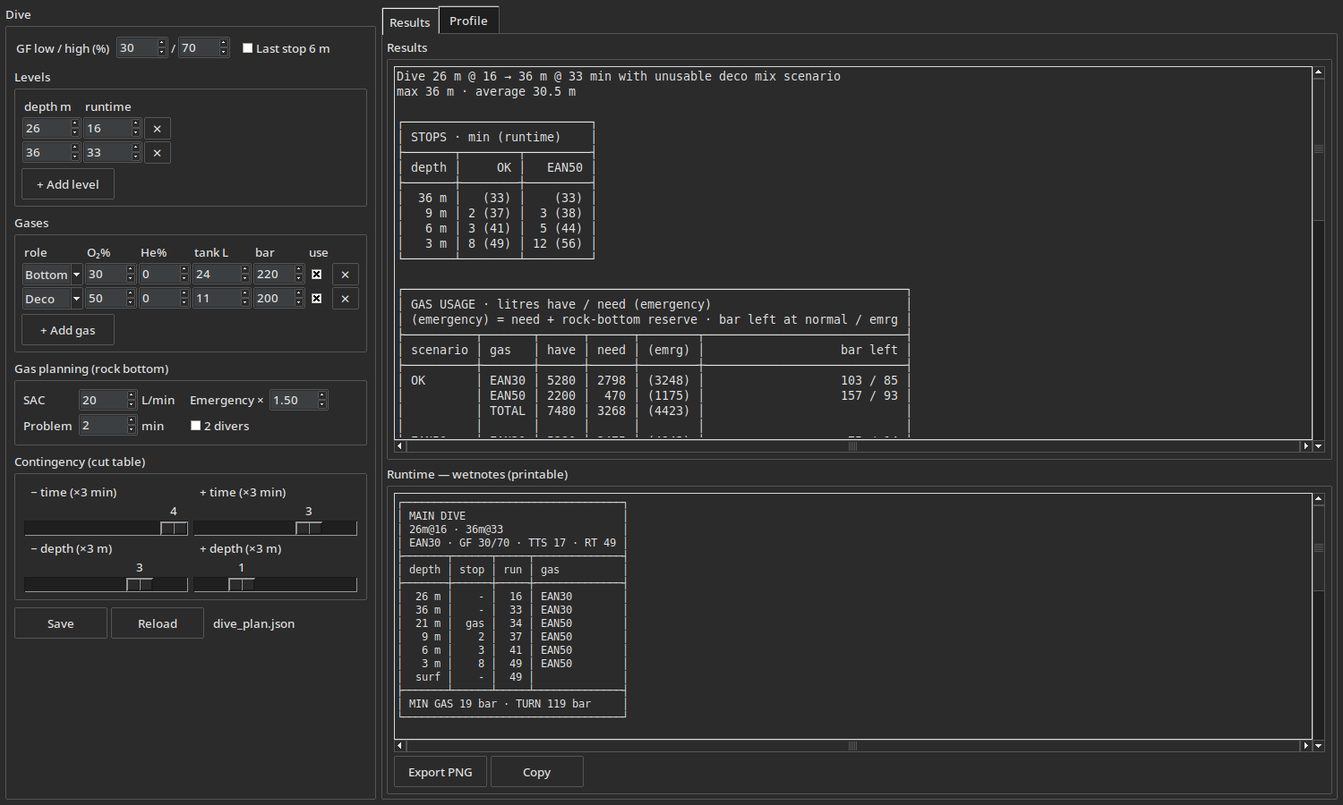
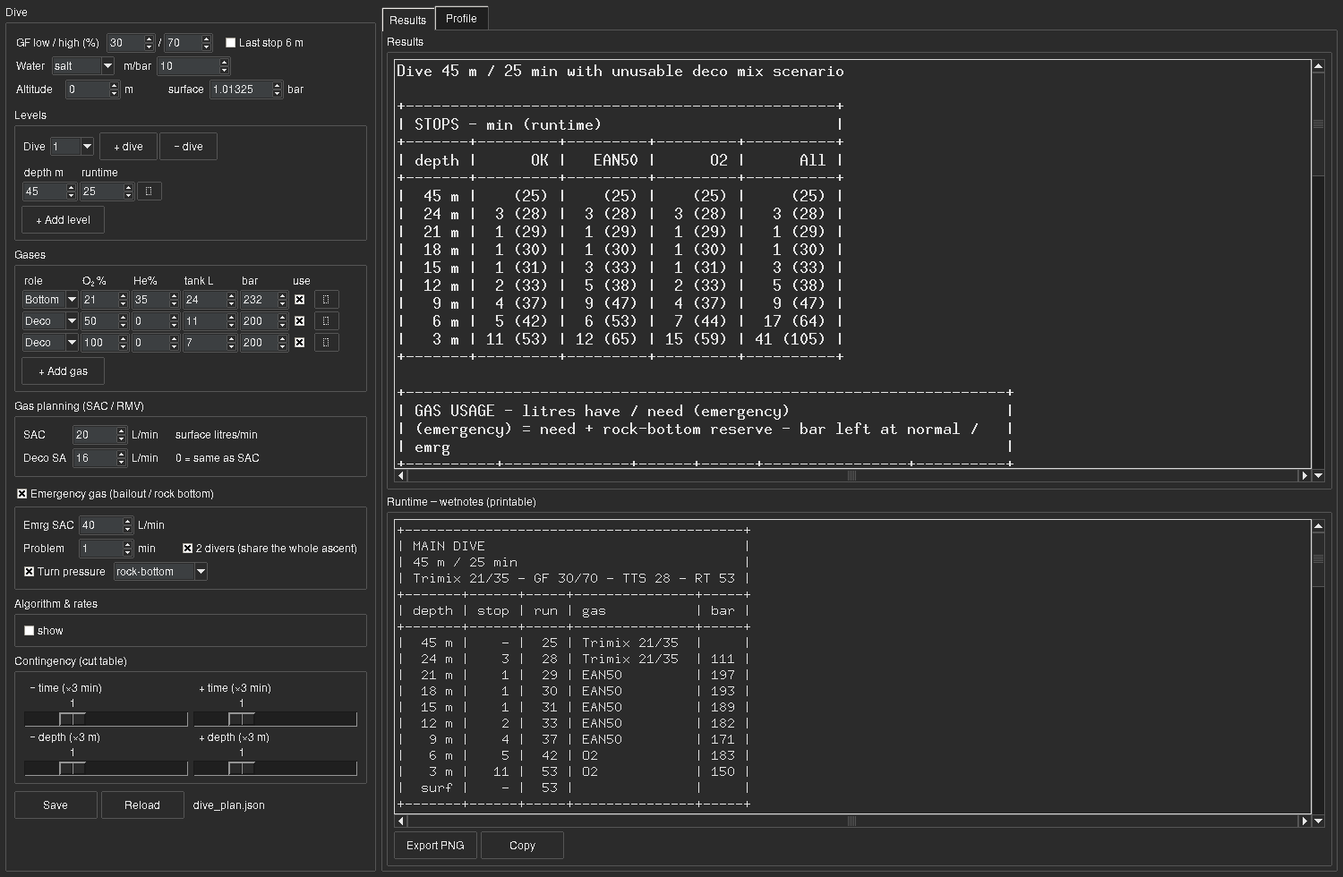
Bring every doc, instruction file and screenshot level with the code
The screenshots were the worst of it: 25 commits stale, predating the
Emergency gas frame, the turn pressure and the cut-table sliders that both
README and CLAUDE.md describe in detail — and still showing the 'Emergency x
1.50' multiplier that was removed in #28. Regenerated from a fixed dive rather
than the checkout's own dive_plan.json, so they are reproducible and do not
publish the owner's plan.

Verified rather than eyeballed: every CLI recipe in README, CLAUDE.md and the
skill was extracted and executed (36 of them), and both library snippets and
the cards/README workflow were run. One CLAUDE.md example needed a config with
'repeats' and now says so; the rest pass.

Also:
- Test counts were wrong in three places (174/258/284 in README, 200 in
  CONTRIBUTING; it is 442) and wrongly framed — skipped tests still count in
  'Ran', so what varies is the skip line. Documented as a table of what each
  machine is missing: 1 / 45 / +38.
- Repetitive dives and the printable card PDF were absent from the README
  feature list entirely.
- Module lists everywhere now name deco.toxicity, deco.contingency and
  deco.cards; CLAUDE.md's app row still said 'SAC x multiplier' and pointed at
  buhlmann.contingency_schedules.
- CI proves two more claims: the GUI job runs the input-coverage widget arm
  (what makes #19 checkable), and the wheel check asserts cards.py,
  toxicity.py and contingency.py really ship (#31). Both verified locally.

diff --git a/CLAUDE.md b/CLAUDE.md
@@ -39,7 +39,7 @@ A small, dependency-free Python library (+ CLI and optional GUI) that computes:
 | `src/deco/report.py` | Shared stdlib-only layer between `buhlmann` and both front ends: everything user-facing that is *computed* lives here once so the CLI and GUI cannot drift. `DEFAULT_FILL_BAR`, `water_name` (msw/bar → salt/fresh/custom label), `wetnotes_rows` (the printed runtime-card rows, built on `buhlmann.stop_legs`), `runtime_min` (re-exported from `buhlmann`; a runtime truncated to whole minutes — MultiDeco's convention, verified against a real export; every rendered runtime goes through it), `warning_lines`, `backup_line` (the whole schedule on one line, for a slate or a message), `GasStackRow`/`gas_stack_table` (MOD/END/EAD/density per mix, each quoted at its OWN MOD — the deepest it would ever be breathed), `leg_pressures` (cylinder bar leaving each stop, index-aligned to `stop_legs`; the one gas figure an SPG can check), `Bank`/`aggregate_banks` (same-mix cylinders → one bank), `DEFAULT_SAC` (20 L/min — the baseline every gas estimate falls back to, kept equal to the config schema's `sac_normal`), `CylinderNeed`/`GasReport`/`gas_report` (per-mix need/have/emergency/SHORT + rock bottom — it takes the whole `DivePlan`, never loose environment scalars, so a caller cannot omit the water/altitude or the deco stack and get a plausible wrong number: DECISIONS #24; with `GasPlan.emergency` False, `liters_emergency` and `rock_bottom_l` are **None, never 0.0** — absent, not "none needed" — and `GasReport.emergency` is the one flag a renderer asks, DECISIONS #28; `turn_pressure_bar` follows `GasPlan.turn_rule` and is None when not wanted, `turn_reserve_bar` = `2 × turn − fill` is what surfaces, and `turn_below_rock_bottom` flags a thirds turn that leaves less than minimum gas — every view prints that flag, card included), `PlanResult`/`compute_plan_result` (+ `surf_gf`, `gas_stack`, `backup`, `leg_bars`, `bailout`) and `compute_series_result` (one `PlanResult` per dive of a day, tissues carried through the surface intervals — a series is a list of ordinary results, not a new kind of thing). **Gases are keyed by the frozen `Gas` value, never its rounded `repr`** — two mixes that render the same label keep separate accounting. **Keep dependency-free.** | buhlmann |
 | `src/deco/dive_config.py` | Shared JSON dive config (`load`/`save`/`normalize`/`to_buhlmann`) read by the GUI and written by `plan --save`. `load(strict=True)` raises on a missing/corrupt file (CLI); the lenient default falls back to `default_config()` (GUI first launch) — normalization happens *inside* that strict/lenient boundary so a semantically corrupt file can't slip through as a silent default. `save()` is atomic (temp file + `os.replace`). Where the file lives is `default_path()`: `$DECO_CONFIG`, else `./dive_plan.json` if the cwd has one, else the per-user config dir (`user_config_path()`) — there is no module-level `DEFAULT_PATH` any more (DECISIONS #11). Public `normalize(cfg)` (front ends use it instead of `_merged`). Levels are pure depth/time periods (`depth_m` + cumulative `runtime_min`) and gas is chosen automatically by role. Legacy per-level gas references (`gas_id` or inline mixes), legacy `"Level"`-role gases and legacy `start_min` arrival times are dropped on load. **Unknown keys, unknown gas roles, missing level fields and out-of-range mixes are refused, not defaulted** — `{"depth": 40}` used to normalize to 30 m and a role of `Bottum` to `Deco` (DECISIONS #9, #24). **A config with no usable gas is refused, not defaulted**: an explicit `"gases": []` stays empty and `to_buhlmann` raises (CLI exit 2) rather than planning on Air with a deco stage the file never named — an absent `gases` key still gets defaults (DECISIONS #24). `repeats` holds the dives after the first (`surface_interval_min` + `levels`, both required — a guessed interval would invent residual nitrogen); `series_of` returns the whole day as `(interval, levels)` per dive and `levels` stays dive 1, so every config predating repetitive dives means the same dive (DECISIONS #26). Adds `surface_p_bar`/`msw_per_bar` (environment), `gas_switch_policy` and `sac_deco` (`null` = one rate); a config predating them still loads as sea-level salt water with a single SAC. `emergency` (bool) + `sac_emergency` (absolute L/min) replace `sac_multiplier`, which — like the older `sac_stress` — migrates to a rate on load and is dropped; a config naming neither keeps the old behaviour (twice `sac_normal`). `turn_pressure` (bool) + `turn_rule` (`rock-bottom`/`thirds`) size the turn pressure. DECISIONS #28. | buhlmann |
 | `dive_plan.json` | The full dive: `levels` (depth + cumulative runtime — pure depth/time periods; gas is chosen automatically by role, so levels carry no mix of their own), GF, gas stack (per-gas tank + fill pressure + `enabled` toggle + role Bottom/Travel/Deco; a disabled gas is never planned; legacy per-level gas references and `"Level"`-role gases are dropped on load), SAC + optional deco SAC + emergency SAC multiplier, problem time + `divers` (emergency team size), water type + surface pressure (`msw_per_bar`/`surface_p_bar`), ascent/descent/stop rates + ppO2 window, `contingency` cut-table step counts on the fixed 3 min × 3 m grid (`time_before`/`time_after`/`depth_before`/`depth_after`, 0 disables a direction; legacy `time_delta_min`/`depth_delta_m` migrate on load). Agent-editable. | — |
-| `src/deco/app.py` | Tkinter + matplotlib GUI. **`recompute` builds ONE `report.PlanResult` per dive via `compute_series_result` — the same objects `deco plan` renders — and `_write_readout`/`_write_runtime` render its fields; the GUI formats, it never derives** (DECISIONS #24: deriving inline is how it came to print sea-level density on an altitude dive and to ignore the deco SAC entirely). Layout: left settings (GF row + 'Last stop 6 m' switch on top, then the **environment** row — water dropdown (salt/fresh/custom) writing m/bar, plus altitude writing surface pressure (both one-way: the numeric fields are the stored truth and stay hand-editable, so a constant from another planner survives a round trip), then the **dive series** row (a dive picker + `+ dive` / `- dive` and a surface-interval field shown on dives 2+ only — settings are shared across the day, only the profile repeats, DECISIONS #26) and an editable **Levels** list (depth / cumulative **runtime**, + Add level — two fields only, read/written via `_row_levels`/`_level_row_dict`; levels are contiguous so the transit is part of the runtime) and the editable gas list w/ tank+bar, then SAC + an optional deco SAC (0 = same rate), then a separate **Emergency gas** frame whose LabelFrame *is* the on/off checkbox — emergency SAC (L/min, 0 = twice the SAC) / problem minutes / a '2 divers' checkbox / a 'Turn pressure' checkbox + rule dropdown (rock-bottom or thirds, with a hover box explaining both), its inputs greyed out (ttk `disabled` state) when the box is unticked and every emergency figure gone from the Results tab and the wetnotes card when it is off (DECISIONS #28), then a collapsed **Algorithm & rates** panel (descent/ascent rate, stop interval, free last-stop depth, the whole ppO₂ window incl. the switch tolerance, the gas-switch policy, and P_H₂O — every remaining plan input, none of it config-passthrough any more; the rate fields carry `RATE_REFERENCE` as a `_Tooltip` hover box plus an inline one-liner, listing what each cross-checked planner uses and where the number was read off — 18/10 ours, 10/10 Shearwater, 8/9 MultiDeco) (stored as `divers` 1/2), then four **Contingency (cut table)** sliders — bottom-time steps −/+ and depth steps −/+ on the fixed 3 min × 3 m grid, persisted in the config's `contingency` block, 0 disables a direction); the rest is a two-tab notebook — **Results** (stops + lost-deco-gas scenario table, per-scenario gas usage as **have / need (emergency)** — tank×bar carried vs litres required at the normal SAC, with the rock-bottom emergency reserve (`buhlmann.emergency_gas_liters`: problem minutes @ max depth + the real ascent/deco to the next switch at SAC × multiplier) **added on top of the normal need** in parentheses (the `(emrg)` figure = need + reserve); `SHORT!` flags a shortfall at the normal SAC and a second `SHORT!` inside the emergency parens when even need-plus-reserve is exceeded — plus bar left at both the normal and emergency need, and the gas plan whose columns are **need / have / (emrg)**) + a printable **Runtime** wetnotes card — one framed card per lost-gas scenario — including a **lost bottom gas** column when that is survivable at all — rows from `report.wetnotes_rows` so the STOP column always adds up to the RUN column (DECISIONS #17), plus a `bar` column (`report.leg_pressures`) and the one-line backup schedule in the footer, then the bottom-timer **CUT TABLE** matrix card from `buhlmann.contingency_schedules` (bottom-time rows × depth columns, each cell `ContingencyCell.text()` — stops + TTS rounded UP, `no deco`/`n/a`; `*` marks the planned row/column) — with PNG export, and **Profile** (the depth/time chart with the deco ceiling overlaid via `buhlmann.ceiling_profile`). Dark mode in the **Settings** menu. **Continuous inputs are debounced**: entry traces and the cut-table sliders call `_schedule_recompute()` (150 ms, cancels any pending job), discrete actions — add/remove level or gas row, switch dive, dark mode, the initial build — call `recompute()` directly, and `recompute()` stays synchronous because the tests run without a mainloop (DECISIONS #30). Loads/saves `dive_plan.json`; dark mode + window geometry (saved on close, restored on start; 1x1 unmapped geometries never persisted) live in `ui_settings.json` next to the per-user config dir (never mix UI prefs into the dive config — DECISIONS #10). `--install-launcher` (`deco-gui --install-launcher`) registers a per-user Linux `.desktop` + icon whose `Exec` is `<python> -m deco.app` (so it survives moving the checkout), so GNOME docks show the `<//>` tile (window icon alone is ignored there; keep iconphoto images ≤128 px — Tk 8.6 silently writes an empty `_NET_WM_ICON` above that). Built as small per-card methods (`_card_header`/`_cards_warnings`/`_card_series`/`_cards_stops`/`_card_gas`/`_card_gas_stack`/`_card_dive`/`_card_environment`/`_card_gas_plan`), each taking the `PlanResult` and returning lines — `_write_readout` chooses the order and holds no arithmetic. Safety surfacing: ppO₂/ceiling/density warnings as ⚠ cards **at the top of Results and on every wetnotes card** (DECISIONS #4), CNS/OTU + END/density + the config-driven rates/ppO₂ limits in the DIVE/GAS cards, silent-fallback notices (no Bottom gas, invalid mix row), gas-switch rows (`gas` in the stop column) on the wetnotes card, same-mix cylinders aggregated via `_cylinders_by_mix`, and a strict config load on startup (a corrupt file shows "⚠ config unreadable — defaults", never a silent default plan). | matplotlib, tkinter, dive_config |
+| `src/deco/app.py` | Tkinter + matplotlib GUI. **`recompute` builds ONE `report.PlanResult` per dive via `compute_series_result` — the same objects `deco plan` renders — and `_write_readout`/`_write_runtime` render its fields; the GUI formats, it never derives** (DECISIONS #24: deriving inline is how it came to print sea-level density on an altitude dive and to ignore the deco SAC entirely). Layout: left settings (GF row + 'Last stop 6 m' switch on top, then the **environment** row — water dropdown (salt/fresh/custom) writing m/bar, plus altitude writing surface pressure (both one-way: the numeric fields are the stored truth and stay hand-editable, so a constant from another planner survives a round trip), then the **dive series** row (a dive picker + `+ dive` / `- dive` and a surface-interval field shown on dives 2+ only — settings are shared across the day, only the profile repeats, DECISIONS #26) and an editable **Levels** list (depth / cumulative **runtime**, + Add level — two fields only, read/written via `_row_levels`/`_level_row_dict`; levels are contiguous so the transit is part of the runtime) and the editable gas list w/ tank+bar, then SAC + an optional deco SAC (0 = same rate), then a separate **Emergency gas** frame whose LabelFrame *is* the on/off checkbox — emergency SAC (L/min, 0 = twice the SAC) / problem minutes / a '2 divers' checkbox / a 'Turn pressure' checkbox + rule dropdown (rock-bottom or thirds, with a hover box explaining both), its inputs greyed out (ttk `disabled` state) when the box is unticked and every emergency figure gone from the Results tab and the wetnotes card when it is off (DECISIONS #28), then a collapsed **Algorithm & rates** panel (descent/ascent rate, stop interval, free last-stop depth, the whole ppO₂ window incl. the switch tolerance, the gas-switch policy, and P_H₂O — every remaining plan input, none of it config-passthrough any more; the rate fields carry `RATE_REFERENCE` as a `_Tooltip` hover box plus an inline one-liner, listing what each cross-checked planner uses and where the number was read off — 18/10 ours, 10/10 Shearwater, 8/9 MultiDeco) (stored as `divers` 1/2), then four **Contingency (cut table)** sliders — bottom-time steps −/+ and depth steps −/+ on the fixed 3 min × 3 m grid, persisted in the config's `contingency` block, 0 disables a direction); the rest is a two-tab notebook — **Results** (stops + lost-deco-gas scenario table, per-scenario gas usage as **have / need (emergency)** — tank×bar carried vs litres required at the normal SAC, with the rock-bottom emergency reserve (`buhlmann.emergency_gas_liters`: problem minutes @ max depth + the real ascent/deco to the next switch at `GasPlan.sac_emergency`, an absolute L/min rate) **added on top of the normal need** in parentheses (the `(emrg)` figure = need + reserve); `SHORT!` flags a shortfall at the normal SAC and a second `SHORT!` inside the emergency parens when even need-plus-reserve is exceeded — plus bar left at both the normal and emergency need, and the gas plan whose columns are **need / have / (emrg)**) + a printable **Runtime** wetnotes card — one framed card per lost-gas scenario — including a **lost bottom gas** column when that is survivable at all — rows from `report.wetnotes_rows` so the STOP column always adds up to the RUN column (DECISIONS #17), plus a `bar` column (`report.leg_pressures`) and the one-line backup schedule in the footer, then the bottom-timer **CUT TABLE** matrix card from `contingency.contingency_schedules` (bottom-time rows × depth columns, each cell `ContingencyCell.text()` — stops + TTS rounded UP, `no deco`/`n/a`; `*` marks the planned row/column) — with PNG export, and **Profile** (the depth/time chart with the deco ceiling overlaid via `buhlmann.ceiling_profile`). Dark mode in the **Settings** menu. **Continuous inputs are debounced**: entry traces and the cut-table sliders call `_schedule_recompute()` (150 ms, cancels any pending job), discrete actions — add/remove level or gas row, switch dive, dark mode, the initial build — call `recompute()` directly, and `recompute()` stays synchronous because the tests run without a mainloop (DECISIONS #30). Loads/saves `dive_plan.json`; dark mode + window geometry (saved on close, restored on start; 1x1 unmapped geometries never persisted) live in `ui_settings.json` next to the per-user config dir (never mix UI prefs into the dive config — DECISIONS #10). `--install-launcher` (`deco-gui --install-launcher`) registers a per-user Linux `.desktop` + icon whose `Exec` is `<python> -m deco.app` (so it survives moving the checkout), so GNOME docks show the `<//>` tile (window icon alone is ignored there; keep iconphoto images ≤128 px — Tk 8.6 silently writes an empty `_NET_WM_ICON` above that). Built as small per-card methods (`_card_header`/`_cards_warnings`/`_card_series`/`_cards_stops`/`_card_gas`/`_card_gas_stack`/`_card_dive`/`_card_environment`/`_card_gas_plan`), each taking the `PlanResult` and returning lines — `_write_readout` chooses the order and holds no arithmetic. Safety surfacing: ppO₂/ceiling/density warnings as ⚠ cards **at the top of Results and on every wetnotes card** (DECISIONS #4), CNS/OTU + END/density + the config-driven rates/ppO₂ limits in the DIVE/GAS cards, silent-fallback notices (no Bottom gas, invalid mix row), gas-switch rows (`gas` in the stop column) on the wetnotes card, same-mix cylinders aggregated via `_cylinders_by_mix`, and a strict config load on startup (a corrupt file shows "⚠ config unreadable — defaults", never a silent default plan). | matplotlib, tkinter, dive_config |
 | `tests/` | `unittest` suites: `test_buhlmann.py`, `test_toxicity.py`, `test_contingency.py`, `test_cli.py`, `test_report.py`, `test_dive_config.py`, `test_app_levels.py`, `test_cards_format.py` (the printed card carries the planner's own numbers; skips without matplotlib), `test_input_coverage.py` (every plan input binds in config+CLI+GUI), `test_multideco_scenarios.py`, `test_planner_diff.py`, `test_subsurface_crosscheck.py`, `test_baker_crosscheck.py`, `test_shearwater_golden.py`. `tests/__init__.py` puts `src/` on `sys.path`, which is why discovery needs `-t .` (DECISIONS #13). | stdlib |
 | `tests/planner_diff.py` | **Constant/variable divergence harness.** `registry()` is every model constant and planner setting we have, each tagged with the observables that could pin it; `registry_gaps()` introspects every module in `CONSTANT_MODULES` (`buhlmann`, `toxicity`, `contingency`) and a test **fails if anything is unregistered**, so a new constant cannot be added invisibly. `Evidence` holds what a reference export prints (ppO₂, ead, density, schedule deltas, CNS/OTU, gas litres, stated settings); `infer_environment` inverts printed pressures to a feasible (surface_p, msw_per_bar) box by grid search; `compare()` returns one verdict per tunable — `DIVERGES` / `UNDETERMINED` (nothing in the evidence touches it — never confuse with agreement) / `SETTING` (the export states it; just pass it) / `JOINT_OK` (only identifiable as a group, and the group agrees) / `MATCH`. Run `python -m tests.planner_diff` for a report on the bundled exports. Add a new planner by writing one `Evidence`. | stdlib |
 | `tests/python_oracles.py`, `tests/test_python_oracles.py` | **Third-party Python oracles** — `decotengu` + `decodaitengu`, `pip install -e ".[dev]"`, GPL-3, **test-only and never vendored** (nothing in `src/deco` imports them). Four implementations make "who is wrong" answerable: our ceiling matches decodaitengu to 0.03 mbar (vs a 5.4 mbar MultiDeco gap), the 4.0/5.0 min first compartment splits two-two, and decodaitengu's slow-compartment helium `a` is a different model so it is a **nitrogen** oracle only (DECISIONS #22; what those numbers do and do not establish — and the qualifiers to quote them with — is #23). Skips when absent, like g++/gfortran. | decotengu, decodaitengu |
@@ -128,7 +128,9 @@ python -m deco.cli ndl --depth 30 --gas air --altitude 1500
 # Repetitive dives: each --dive is DEPTH:RUNTIME[:SURFACE_INTERVAL] (minutes on
 # the surface BEFORE that dive); residual loading is carried through
 python -m deco.cli plan --dive 30:25 --dive 30:25:60 --dive 24:30:90 --gas air --deco-gas 50
-python -m deco.cli plan dive_plan.json --dive-index 2   # just the second dive of a series
+# …and one dive out of a series. Needs a config whose `repeats` holds a dive 2
+# — the checkout's own dive_plan.json is a single dive, so this errors there.
+python -m deco.cli plan dive_plan.json --dive-index 2
 # Hold every deco switch until the first stop (the team convention) instead of
 # taking each mix at its MOD
 python -m deco.cli plan --depth 40 --time 25 --gas air --deco-gas 50 --gas-switch at-first-stop

diff --git a/README.md b/README.md
@@ -101,8 +101,16 @@ Erik Baker's gradient factors — a zero-dependency core, plus a CLI and a Tkint
   Levels are pure depth/time periods; gas is chosen **automatically by role**
   (bottom gas while breathable, travel gas where not, deco gases on the ascent),
   so there is one source of truth and no per-level gas overrides to reconcile.
+- **Repetitive dives** — a whole day, not one dive: `--dive
+  DEPTH:RUNTIME[:SURFACE_INTERVAL]` per dive (or a `repeats` block in the
+  config, and a dive picker in the GUI). Residual loading is carried through the
+  surface intervals by the compartments themselves — no tables, no pressure
+  groups — so dive 2 owes more deco than dive 1 for the same profile.
 - Printable **runtime** (wetnotes card) in the GUI — depth / stop / runtime / gas
-  plus TTS and minimum-gas / turn pressure — exportable to PNG to take in the water.
+  / bar plus TTS and minimum-gas / turn pressure — exportable to PNG to take in
+  the water. The same card is available as a **print-ready 90 × 64 mm PDF**
+  (`deco.cards`, imposed 4× on A4 with crop marks) built straight from
+  `deco plan --json`, so a printed cell cannot drift from the schedule.
 - NDL calculator and tissue-loading report.
 
 ## Install
@@ -300,22 +308,33 @@ python -m unittest discover -s tests -t . -v
 ```
 
 No install and no third-party packages needed — `tests/__init__.py` puts `src/`
-on the path. The suite has two tiers:
+on the path. **442 tests** in three tiers:
 
-- **174 core tests** — constant counts, surface saturation, Haldane equivalence,
+- **404 core tests** — constant counts, surface saturation, Haldane equivalence,
   NDLs against published Bühlmann values (±5 min), multi-level profiles,
   gas-switch and travel-gas behaviour, ppO₂-violation and oxygen-toxicity
   (CNS/OTU) checks, END/density, the last-stop option, TTS / rock-bottom
   gas, the contingency cut-table matrix, the ceiling profile and config
   round-trips. Pure standard library: these run everywhere, including a bare
-  Windows Python.
-- **26 cross-check tests** — these compile the reference implementations
+  Windows Python. (Some of them draw, and so need Tk + matplotlib.)
+- **26 compiled cross-checks** — these build the reference implementations
   (Subsurface's `deco.cpp` with **g++**, Baker's `GFDECO` with **gfortran**) and
-  run eko-deco against them. Without those compilers the two modules skip
-  themselves and you see `Ran 258 tests` — that is a *missing compiler*, not
-  missing data; the skip message says so and tells you what to install. On
-  Windows, install MSYS2/MinGW-w64 (or just run the suite under WSL) to get all
-  284.
+  run eko-deco against them. On Windows, install MSYS2/MinGW-w64 or run the
+  suite under WSL to get them.
+- **12 third-party-oracle cross-checks** — `decotengu` and `decodaitengu` from
+  the `[dev]` extra, so "who is wrong" has more than two votes.
+
+The count you see is always `Ran 442 tests`; what varies is the **skip** line,
+and a skip here means *this machine lacks something*, never *this data is
+missing*:
+
+| Skipped | On a machine with |
+|---:|---|
+| 1 | everything — that one is a Shearwater Cloud fixture waiting to be filled |
+| 45 | no display (the GUI and card-rendering tests need Tk + matplotlib) |
+| +38 | no `g++`/`gfortran` and no `[dev]` extra |
+
+Each skip message says what to install.
 
 Every input the model takes is settable from all three front ends — the config
 file, the CLI and the GUI — and `tests/test_input_coverage.py` enumerates
@@ -381,18 +400,26 @@ listed in [`DECISIONS.md`](DECISIONS.md) #3.
 
 ```
 src/deco/          the package
-  buhlmann.py      the model — tissues, Schreiner, GF ceilings, gas planning
+  buhlmann.py      the model — tissues, Schreiner, GF ceilings, the planner, gas planning
+  toxicity.py      the oxygen clocks: NOAA CNS % and Repex OTU
+  contingency.py   the bottom-timer cut table
   report.py        everything user-facing that is computed, shared by both front ends
   dive_config.py   the dive_plan.json schema: load / save / normalize
   cli.py           the `deco` console front end
   app.py           the `deco-gui` Tkinter + matplotlib app
+  cards.py         the printed wetnotes runtime-card layout engine
   assets/          window/taskbar icons (packaged)
 tests/             unittest suites + the two compiled reference oracles
-examples/          ready-to-run command snippets
+cards/             the card workspace — the printed-format reference and a driver
+examples/          ready-to-run command snippets + the real planner exports
 pictures/          logo, screenshots, social preview, gen_assets.py
 dive_plan.json     the shared dive — agent- and hand-editable
 DECISIONS.md       why the planner does what it does, numbered and cited from code
 ```
+
+`buhlmann`, `toxicity`, `contingency`, `report`, `dive_config` and `cli` are
+standard library only; `app` and `cards` are the two that draw, and both live
+behind the `[gui]` extra.
 
 ## Contributing
 

diff --git a/CONTRIBUTING.md b/CONTRIBUTING.md
@@ -24,7 +24,7 @@ and `[dev]` adds ruff and mypy.
 ## The checks CI runs
 
 ```bash
-python -m unittest discover -s tests -t .   # 200 tests
+python -m unittest discover -s tests -t .   # 442 tests
 ruff check .
 mypy
 ```
@@ -32,18 +32,22 @@ mypy
 Optionally `pip install pre-commit && pre-commit install` to run the first two
 on every commit.
 
-Two of those 200 test modules compile the reference implementations —
-Subsurface's `deco.cpp` with **g++**, Erik Baker's `GFDECO` with **gfortran** —
-and skip themselves when the compiler is absent. `Ran 174 tests` on a machine
-without them is expected. On Windows, install MSYS2/MinGW-w64 or run the suite
-under WSL to get all 200.
+The count is always `Ran 442 tests`; the **skip** line is what varies, and a
+skip means this machine lacks something, never that data is missing. Two
+modules compile the reference implementations — Subsurface's `deco.cpp` with
+**g++**, Erik Baker's `GFDECO` with **gfortran** — and two more want the
+`[dev]` extra's Python oracles; the GUI and card-rendering tests want Tk and
+matplotlib. Expect 1 skip with everything installed, 45 without a display, and
+38 more without the compilers and extras. On Windows, install MSYS2/MinGW-w64
+or run the suite under WSL.
 
 ## House rules
 
-**Zero dependencies in the core.** `deco.buhlmann`, `deco.report`,
-`deco.dive_config` and `deco.cli` are standard library only. Only `deco.app`
-may import matplotlib and tkinter. This is [DECISIONS.md #1](DECISIONS.md) and
-it is not negotiable.
+**Zero dependencies in the core.** `deco.buhlmann`, `deco.toxicity`,
+`deco.contingency`, `deco.report`, `deco.dive_config` and `deco.cli` are
+standard library only. Only `deco.app` and `deco.cards` — the two that draw —
+may import matplotlib and tkinter, and both sit behind the `[gui]` extra. This
+is [DECISIONS.md #1](DECISIONS.md) (and #31) and it is not negotiable.
 
 **Warnings are load-bearing.** The planner deliberately plans bad profiles and
 flags them rather than refusing (#4). Any new output path must carry
@@ -74,8 +78,9 @@ fractions 0–1.
 
 ## When you add a CLI flag
 
-Update, in the same commit: `src/deco/cli.py`, `README.md`, and the Commands
-block in `CLAUDE.md`. The agent instructions are documentation with a job — a
+Update, in the same commit: `src/deco/cli.py`, `README.md`, the Commands block
+in `CLAUDE.md`, and the skill (`.claude/skills/deco-buhlmann/SKILL.md`) if the
+flag is one an agent would reach for. The agent instructions are documentation with a job — a
 stale module map is a bug.
 
 ## Decisions

diff --git a/.claude/skills/deco-buhlmann/SKILL.md b/.claude/skills/deco-buhlmann/SKILL.md
@@ -30,7 +30,11 @@ has `deco` on PATH).
 
 ## Files
 
-- `src/deco/buhlmann.py` — library: `Gas` (incl. `end`/`density`), `Tissues`, `Level`/`plan_multilevel` (multi-level; `plan_dive` = one level; a `Level` is depth + cumulative runtime only — levels are contiguous, the transit is billed to the level's runtime, and a runtime too short to cover it is an error), `ndl`, `ceiling`, `ceiling_profile`, `time_to_surface`, `max_depth`/`average_depth`, `GasPlan`/`rock_bottom_liters`, `ppo2_violations`/`worst_ppo2_violations` (segments outside the ppO2 window — always surface these), `cns_otu` (NOAA CNS% + OTU), `contingency_schedules` (cut-table matrix, square @ max depth)
+- `src/deco/buhlmann.py` — library: `Gas` (incl. `end`/`density`), `Tissues`, `Level`/`plan_multilevel` (multi-level; `plan_dive` = one level; a `Level` is depth + cumulative runtime only — levels are contiguous, the transit is billed to the level's runtime, and a runtime too short to cover it is an error), `ndl`, `ceiling`, `ceiling_profile`, `time_to_surface`, `max_depth`/`average_depth`, `GasPlan`/`rock_bottom_liters`, `ppo2_violations`/`worst_ppo2_violations` (segments outside the ppO2 window — always surface these)
+- `src/deco/toxicity.py` — `cns_otu` (NOAA CNS% + Repex OTU). A downstream analysis of a planned dive, not part of the model — `from deco import toxicity`, not `buhlmann.cns_otu`
+- `src/deco/contingency.py` — `contingency_schedules` / `ContingencyCell` (the cut-table matrix, square @ max depth on a 3 min × 3 m grid)
+- `src/deco/report.py` — the shared layer both front ends render: `compute_plan_result` / `PlanResult`, warnings, per-cylinder gas, the wetnotes rows. Compute here, never in a front end
+- `src/deco/cards.py` — the printed 90 × 64 mm runtime card (needs matplotlib); it computes nothing, you feed it `deco plan --json`
 - `src/deco/cli.py` — `python -m deco.cli {plan|ndl|tissues} …` (`--json` for machine output)
 - `src/deco/dive_config.py` / `dive_plan.json` — shared JSON dive config (`levels` + gases + GF); `plan --save` writes it, the GUI reads it
 - `tests/` — `python -m unittest discover -s tests -t .` (the `-t .` is required); includes cross-checks against

diff --git a/CHANGELOG.md b/CHANGELOG.md
@@ -6,6 +6,26 @@ pre-1.0, so anything may still move.
 
 ## [Unreleased]
 
+### Fixed — documentation caught up with the code
+
+- **The README's two screenshots were 25 commits stale** — they predated the
+  Emergency gas frame, the turn pressure and the cut-table sliders that both
+  the README and `CLAUDE.md` describe, and still showed the removed
+  `Emergency × 1.50` multiplier. Regenerated from a fixed, reproducible dive.
+- **Test counts corrected everywhere** (README said 174/258/284, CONTRIBUTING
+  said 200; it is 442) and re-framed: the count is always `Ran 442 tests`, and
+  it is the *skip* line that tells you what your machine lacks.
+- **Repetitive dives** and the **printable card PDF** were missing from the
+  README's feature list entirely.
+- Module lists in `CONTRIBUTING.md`, `.github/copilot-instructions.md`,
+  `.github/instructions/python.instructions.md`, `.claude/agents/dive-planner.md`
+  and the `deco-buhlmann` skill now name `deco.toxicity`, `deco.contingency`
+  and `deco.cards`.
+- **CI proves two more claims.** The GUI job now also runs the input-coverage
+  suite's widget arm — the thing that makes DECISIONS #19's "every input binds"
+  checkable — and the wheel check asserts `cards.py`, `toxicity.py` and
+  `contingency.py` really ship.
+
 ### Changed — oxygen clocks and the cut table move out of the model
 
 - **`deco.toxicity`** (`cns_otu`) and **`deco.contingency`**

diff --git a/.github/instructions/python.instructions.md b/.github/instructions/python.instructions.md
@@ -6,9 +6,10 @@ applyTo: "**/*.py"
 
 - Target Python 3.10+ (verified on 3.14). src layout: the package is `src/deco/`,
   imported as `from deco import buhlmann as b`.
-- **Keep `deco.buhlmann`, `deco.report`, `deco.dive_config` and `deco.cli`
-  dependency-free** (stdlib only). Only `deco.app` may import `matplotlib` /
-  `tkinter`. See `DECISIONS.md` #1.
+- **Keep `deco.buhlmann`, `deco.toxicity`, `deco.contingency`, `deco.report`,
+  `deco.dive_config` and `deco.cli` dependency-free** (stdlib only). Only
+  `deco.app` and `deco.cards` — the two that draw — may import `matplotlib` /
+  `tkinter`, and both sit behind the `[gui]` extra. See `DECISIONS.md` #1, #31.
 - Use `from __future__ import annotations`, type hints, and `@dataclass`. Match the
   existing concise style; comment only non-obvious math (cite the equation/source).
   Modern annotations only — `list[str]`, `X | None`, never `typing.List`/`Optional`.

diff --git a/.github/copilot-instructions.md b/.github/copilot-instructions.md
@@ -17,9 +17,10 @@ changing model math, output, or the dependency policy.
   **warnings** are the safety surface instead (DECISIONS #4), so every
   schedule/NDL/ceiling path must show them.
 - Python 3.10+ (works on 3.14). src layout: the package is `src/deco/`.
-  The core (`deco.buhlmann`, `deco.report`, `deco.dive_config`, `deco.cli`) is
-  dependency-free; only `deco.app` needs matplotlib/tkinter. Don't add deps to
-  the core (DECISIONS #1).
+  The core (`deco.buhlmann`, `deco.toxicity`, `deco.contingency`,
+  `deco.report`, `deco.dive_config`, `deco.cli`) is dependency-free; only
+  `deco.app` and `deco.cards` need matplotlib/tkinter, both behind the `[gui]`
+  extra. Don't add deps to the core (DECISIONS #1, #31).
 - CLI: `deco {plan|ndl|tissues} … [--json]` (or `python -m deco.cli …`).
   GUI: `deco-gui`.
 - Run the suite after any model-math change:

diff --git a/.claude/agents/dive-planner.md b/.claude/agents/dive-planner.md
@@ -36,6 +36,7 @@ ZHL-16C + Erik Baker gradient factors) in this repository.
 - Rock bottom and the emergency column are two different figures: rock bottom is
   the bottom gas's reserve; the `(emrg)` column is `need + reserve`
   (`DECISIONS.md` #7).
-- Keep the core (`deco.buhlmann`, `deco.report`, `deco.dive_config`,
-  `deco.cli`) dependency-free if you edit it, and run
+- Keep the core (`deco.buhlmann`, `deco.toxicity`, `deco.contingency`,
+  `deco.report`, `deco.dive_config`, `deco.cli`) dependency-free if you edit it,
+  and run
   `python -m unittest discover -s tests -t . -v` after any model change.
